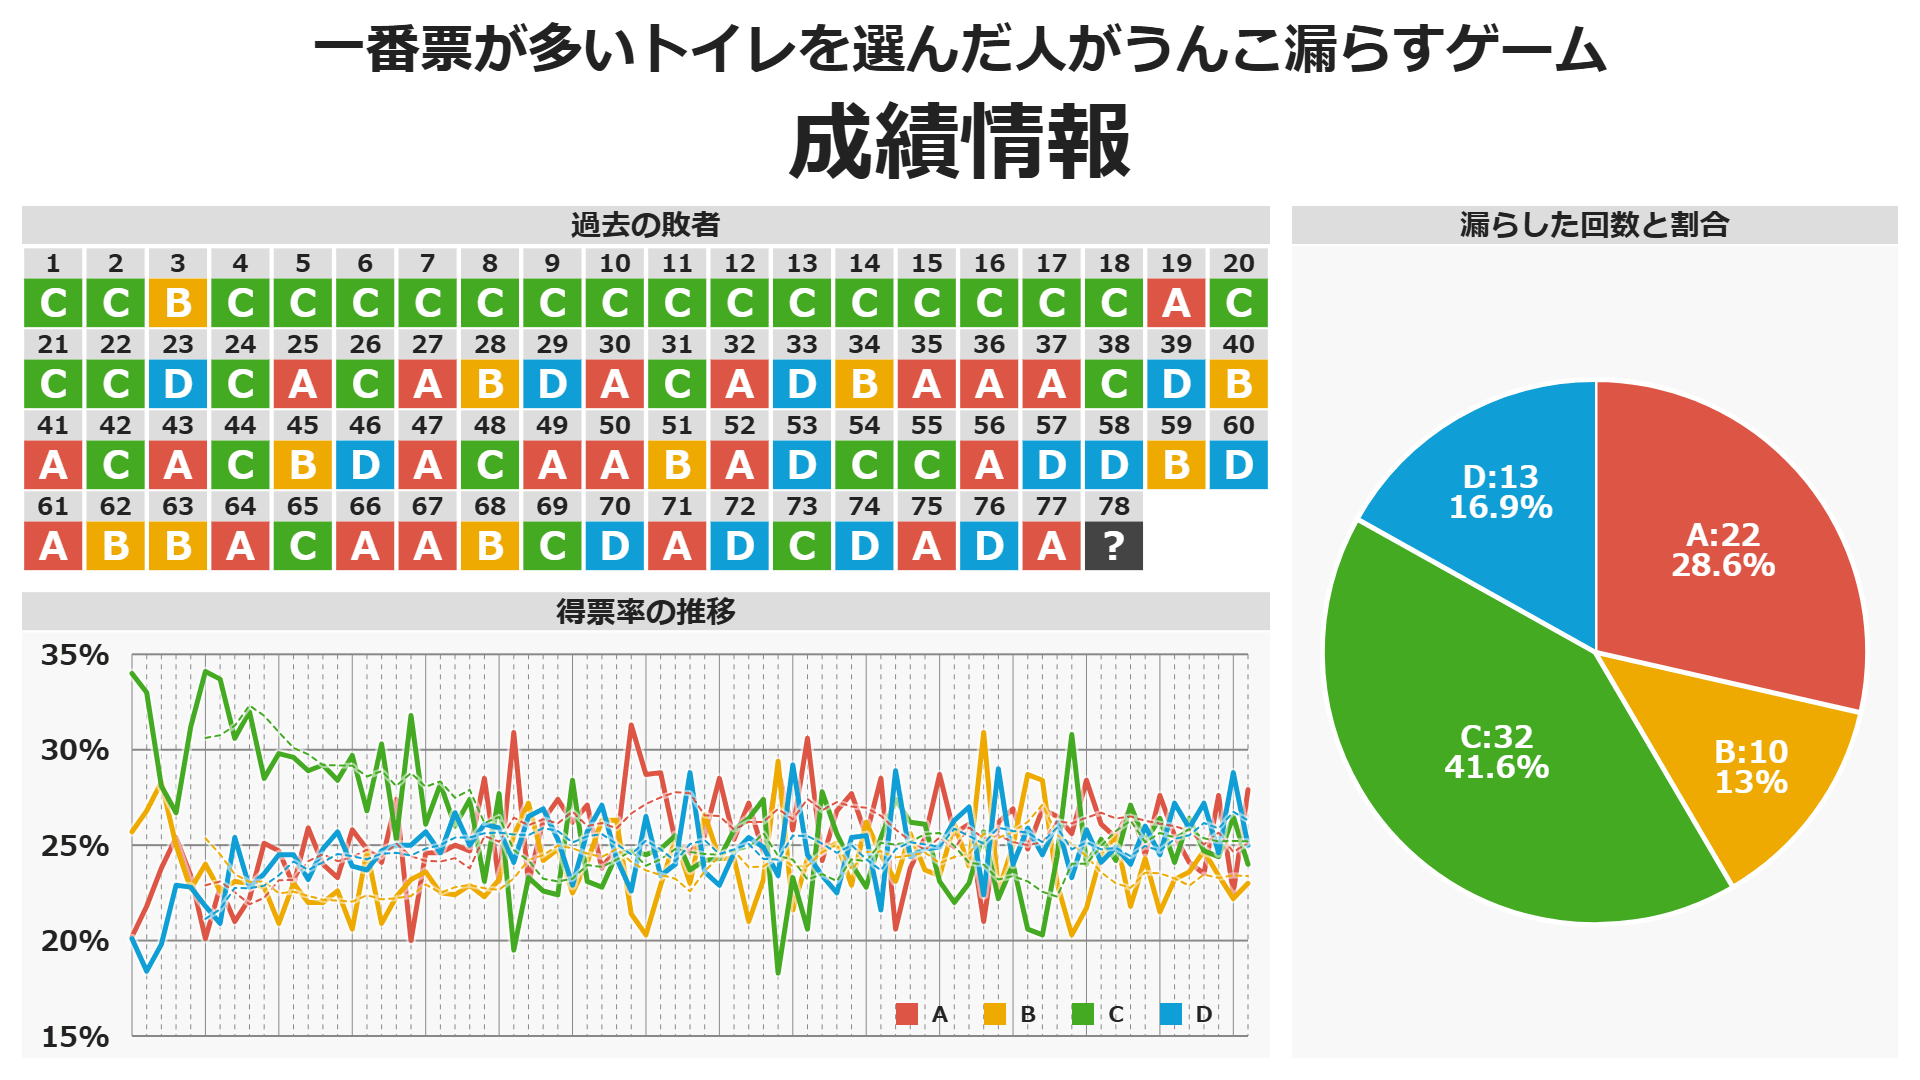
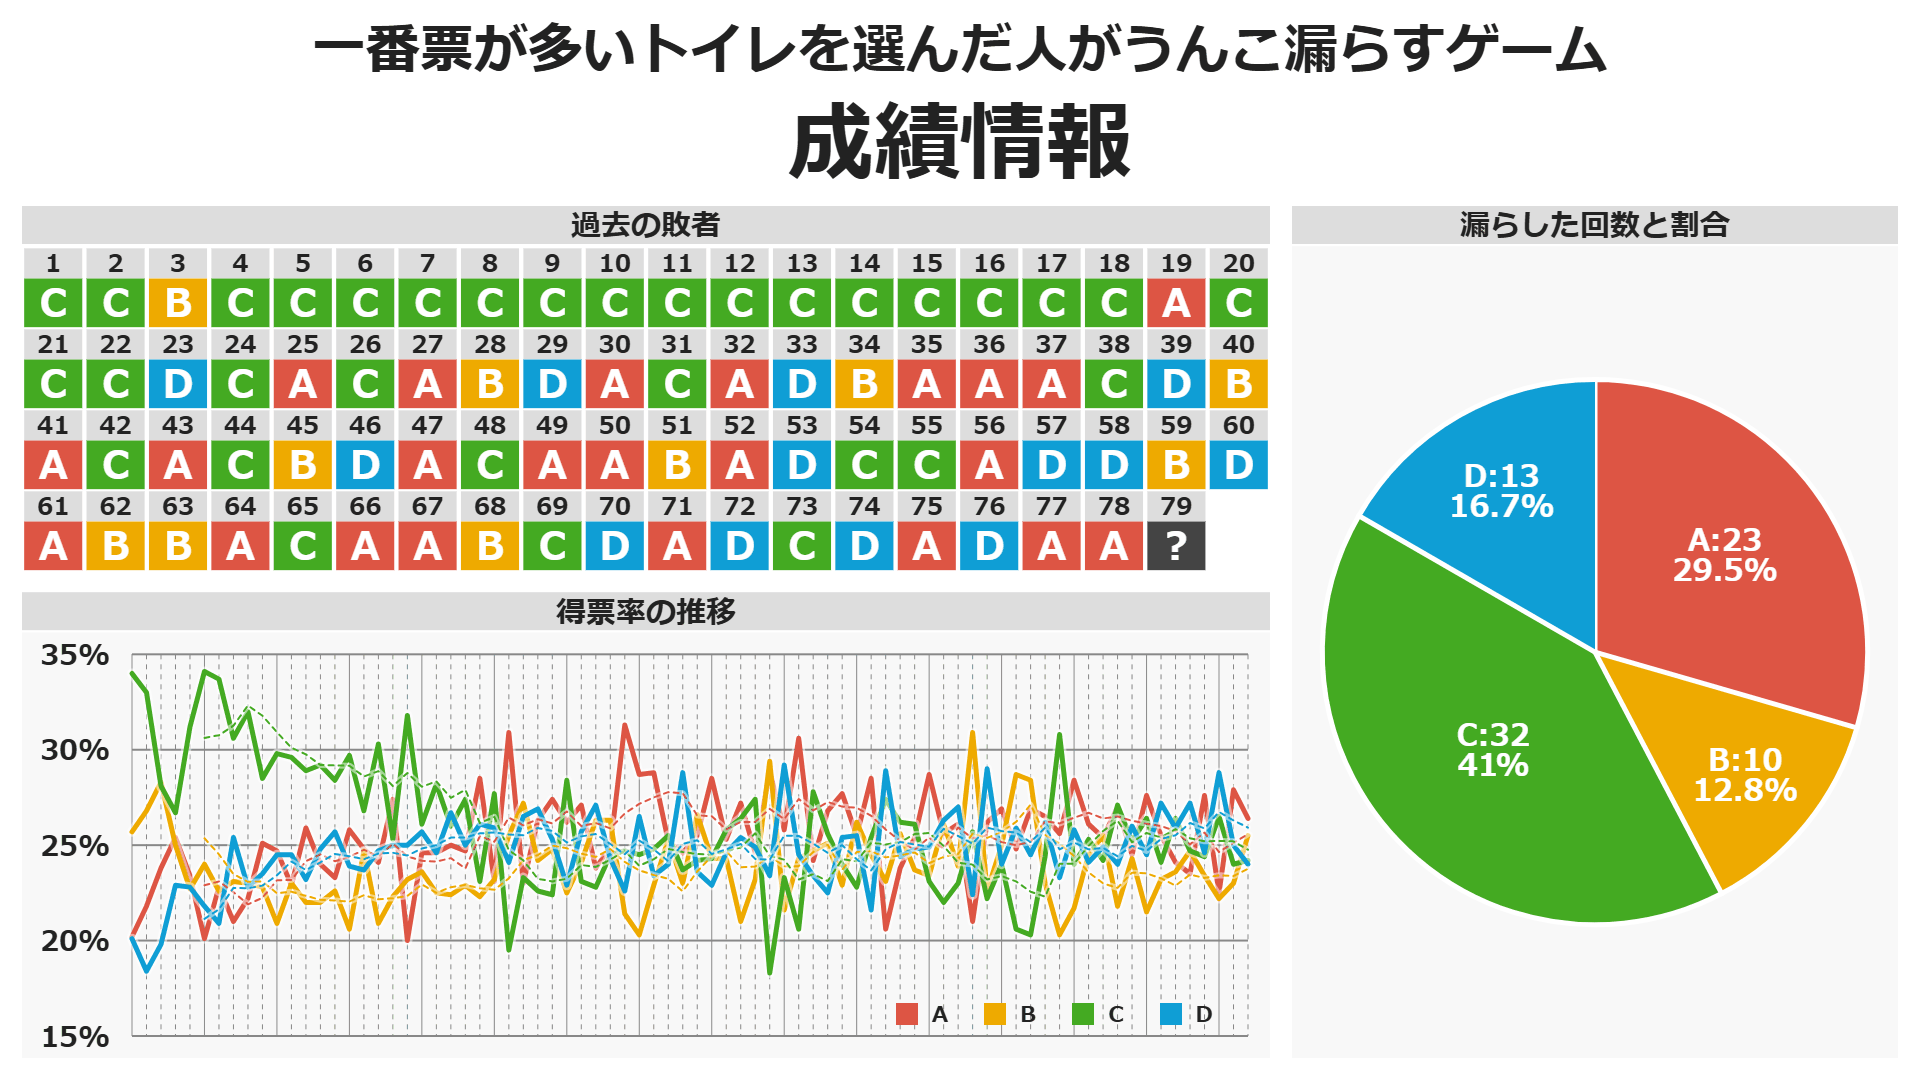
update

diff --git a/docs/index.html b/docs/index.html
@@ -12,7 +12,7 @@
     <meta property="og:url" content="https://shapoco.github.io/toilet-game/" />
     <meta property="og:title" content="4択トイレゲーム" />
     <meta property="og:description" content="一番票が多いトイレを選んだ人がうんこ漏らすゲーム" />
-    <meta property="og:image" content="https://shapoco.github.io/toilet-game/cover.png?20250517135800" />
+    <meta property="og:image" content="https://shapoco.github.io/toilet-game/cover.png?20250524205500" />
     
     <link rel="icon" href="https://shapoco.github.io/favicon192.png" sizes="192x192">
     <link rel="apple-touch-icon" href="https://shapoco.github.io/apple-touch-icon180.png" sizes="180x180">
@@ -36,8 +36,8 @@
     <style>
     </style>
     
-    <link rel="stylesheet" href="./style.css?20250517135800">
-    <script src="./toilet_game.js?20250517135800"></script>
+    <link rel="stylesheet" href="./style.css?20250524205500">
+    <script src="./toilet_game.js?20250524205500"></script>
 
     <title>4択トイレゲーム</title>
   </head>

diff --git a/docs/work.html b/docs/work.html
@@ -12,7 +12,7 @@
     <meta property="og:url" content="https://shapoco.github.io/toilet-game/" />
     <meta property="og:title" content="4択トイレゲーム" />
     <meta property="og:description" content="一番票が多いトイレを選んだ人がうんこ漏らすゲーム" />
-    <meta property="og:image" content="https://shapoco.github.io/toilet-game/cover.png?20250517135800" />
+    <meta property="og:image" content="https://shapoco.github.io/toilet-game/cover.png?20250524205500" />
     
     <link rel="icon" href="https://shapoco.github.io/favicon192.png" sizes="192x192">
     <link rel="apple-touch-icon" href="https://shapoco.github.io/apple-touch-icon180.png" sizes="180x180">
@@ -33,8 +33,8 @@
       }
     </script>
 
-    <link rel="stylesheet" href="./style.css?20250517135800">
-    <script src="./toilet_game.js?20250517135800"></script>
+    <link rel="stylesheet" href="./style.css?20250524205500">
+    <script src="./toilet_game.js?20250524205500"></script>
 
     <title>4択トイレゲーム</title>
   </head>

diff --git a/docs/toilet_game.js b/docs/toilet_game.js
@@ -79,6 +79,7 @@ const DB = [
   { date: '2025-04-26', total: 427, percent: [27.6, 23.4, 24.4, 24.6], url: 'https://x.com/shapoco/status/1915950318497726670' },
   { date: '2025-05-03', total: 555, percent: [22.5, 22.2, 26.5, 28.8], url: 'https://x.com/shapoco/status/1918538250576380238' },
   { date: '2025-05-10', total: 551, percent: [27.9, 23, 24, 25], url: 'https://x.com/shapoco/status/1921118652474052842' },
-  { date: '2025-05-17', total: 0, percent: null, url: null },
+  { date: '2025-05-17', total: 534, percent: [26.4, 25.5, 24.2, 24], url: 'https://x.com/shapoco/status/1923605397161771037' },
+  { date: '2025-05-24', total: 0, percent: null, url: null },
   //{ date: '2025-xx-xx', total: 0, percent: null, url: null },
 ];
